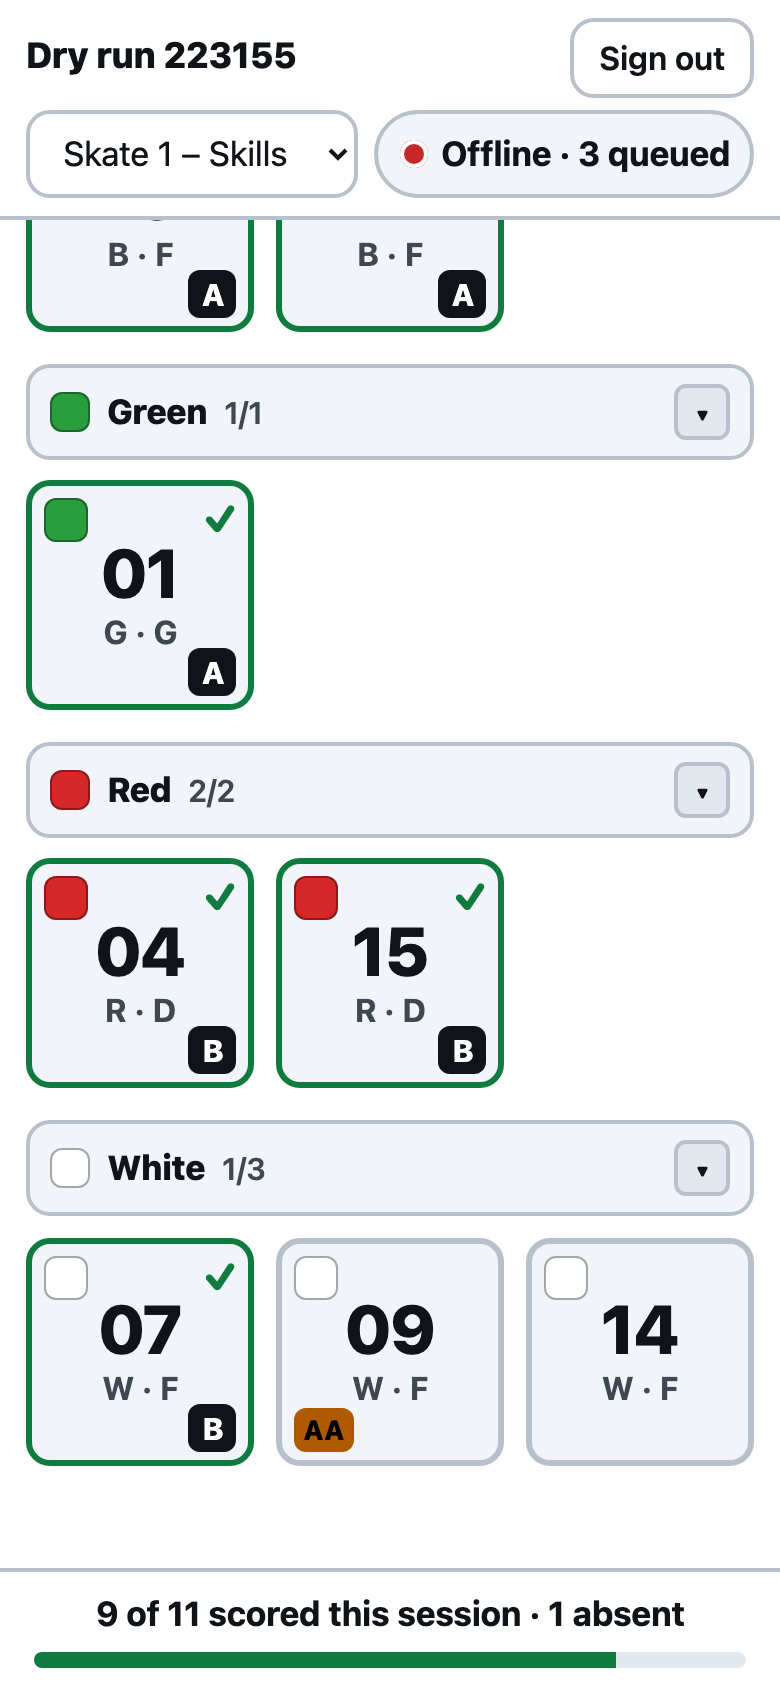
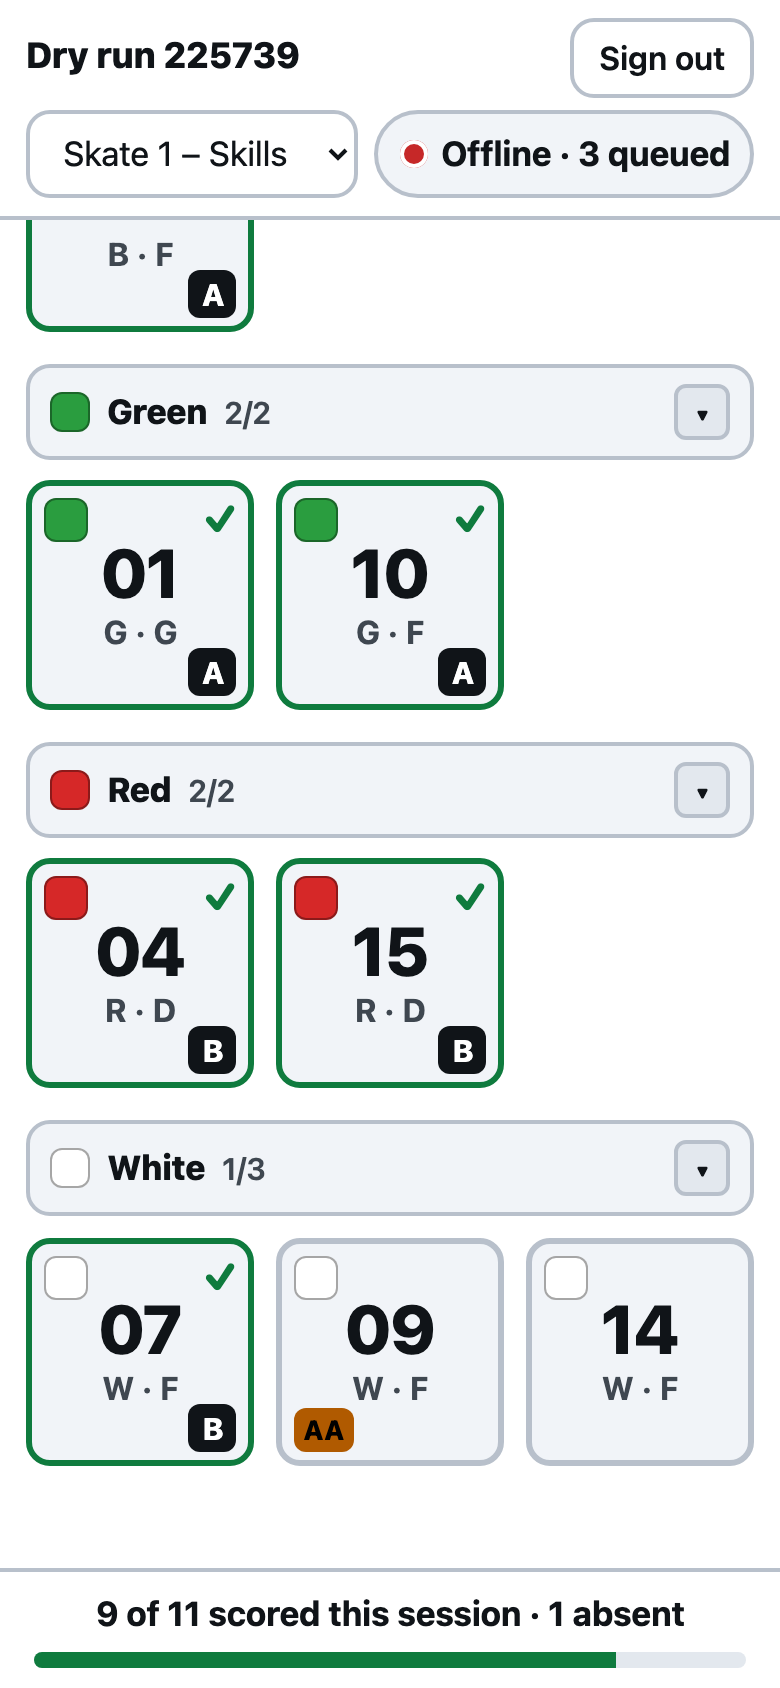
Primary colour dropdown on the Players table (changes the player's code)
- changePlayerColour pipeline: refuse if the player has scores, read the row,
  then TransactWriteItems put-new + delete-old (Conflict if the code exists)
- Admin: primary colour dropdown per row with a confirm; after the move the
  client carries the code over in team rosters, attendance and per-session
  colours, then reloads
- Mock transactions check conditions all-or-nothing and support DeleteItem
- Dry run: B-10 -> Green becomes G-10 with Team 1's roster following; change
  refused for a scored player; 61 unit tests; validated on APPSYNC_JS

diff --git a/web/js/admin.js b/web/js/admin.js
@@ -222,9 +222,21 @@ function renderSetup() {
     tagBox.checked = p.tag === "AA";
     tagBox.addEventListener("change", () => updatePlayer(p, { tag: tagBox.checked ? "AA" : "" }));
 
+    // Primary colour: changing it changes the player's code. Only possible before they have scores.
+    const c1Sel = el("select", { class: "colour-select sm", "aria-label": `Primary colour for ${p.playerNumber}` });
+    const c1Other = el("input", { type: "text", maxlength: "20", placeholder: "New colour", hidden: true, style: "margin-top:.3rem", "aria-label": `New primary colour for ${p.playerNumber}` });
+    fillColourSelect(c1Sel, { value: p.colour });
+    c1Sel.addEventListener("change", () => {
+      if (c1Sel.value === OTHER) { c1Other.hidden = false; c1Other.focus(); return; }
+      changePlayerColour(p, c1Sel.value);
+    });
+    const commitC1Other = () => { const v = c1Other.value.trim(); if (v) changePlayerColour(p, v); };
+    c1Other.addEventListener("change", commitC1Other);
+    c1Other.addEventListener("keydown", (ev) => { if (ev.key === "Enter") { ev.preventDefault(); commitC1Other(); } });
+
     pb.append(el("tr", { class: p.active ? "" : "inactive", "data-player": p.playerNumber },
       el("td", {}, el("span", { class: "swatch", style: `background:${swatchColour(p.colour)}` }), el("b", {}, p.playerNumber), p.tag ? el("span", { class: "tagpill", style: "margin-left:.4rem" }, p.tag) : null),
-      el("td", {}, el("span", { class: "swatch", style: `background:${swatchColour(p.colour)}` }), p.colour),
+      el("td", {}, el("span", { class: "swatch", style: `background:${swatchColour(p.colour)}` }), c1Sel, c1Other),
       el("td", {}, el("span", { class: "swatch", style: `background:${swatchColour(p.colour2 || "")}` }), c2Sel, c2Other),
       el("td", { class: "num" }, String(p.number)), el("td", {}, posSel),
       el("td", {}, tagBox),
@@ -440,6 +452,39 @@ async function updatePlayer(p, patch) {
     Object.assign(p, data.updatePlayer);
     renderAll();
   }, `${p.playerNumber} updated.`);
+}
+
+/** Change the primary colour = the player's code. Server moves the row; we then carry references over. */
+async function changePlayerColour(p, colour) {
+  const code = `${colour.charAt(0).toUpperCase()}-${String(p.number).padStart(2, "0")}`;
+  if (code === p.playerNumber) { renderSetup(); return; }
+  if (!confirm(`Change ${p.playerNumber}'s primary colour to ${colour}? Their code becomes ${code} everywhere. Only possible while they have no scores.`)) { renderSetup(); return; }
+  const oldPn = p.playerNumber;
+  await run(async () => {
+    const data = await gql(`mutation($tryoutId: ID!, $playerNumber: ID!, $colour: String!) {
+      changePlayerColour(tryoutId: $tryoutId, playerNumber: $playerNumber, colour: $colour) { playerNumber colour colour2 number position active tag } }`,
+      { tryoutId: state.tryout.id, playerNumber: oldPn, colour });
+    const moved = data.changePlayerColour;
+    // Carry the old code over in team rosters, attendance lists and per-session colours.
+    for (const team of state.tryout.teams) {
+      if (team.players.includes(oldPn)) {
+        const players = team.players.map((x) => (x === oldPn ? moved.playerNumber : x));
+        const r = await gql(`mutation($tryoutId: ID!, $teamId: ID!, $players: [ID!]!) { setTeamPlayers(tryoutId: $tryoutId, teamId: $teamId, players: $players) { id players } }`, { tryoutId: state.tryout.id, teamId: team.id, players });
+        team.players = r.setTeamPlayers.players;
+      }
+    }
+    for (const sess of state.tryout.sessions) {
+      if ((sess.absent || []).includes(oldPn)) {
+        await gql(`mutation($tryoutId: ID!, $sessionId: ID!, $playerNumber: ID!, $present: Boolean!) { setAttendance(tryoutId: $tryoutId, sessionId: $sessionId, playerNumber: $playerNumber, present: $present) { id } }`, { tryoutId: state.tryout.id, sessionId: sess.id, playerNumber: oldPn, present: true });
+        await gql(`mutation($tryoutId: ID!, $sessionId: ID!, $playerNumber: ID!, $present: Boolean!) { setAttendance(tryoutId: $tryoutId, sessionId: $sessionId, playerNumber: $playerNumber, present: $present) { id } }`, { tryoutId: state.tryout.id, sessionId: sess.id, playerNumber: moved.playerNumber, present: false });
+      }
+      if (sess.colours && oldPn in sess.colours) {
+        const next = { ...sess.colours }; next[moved.playerNumber] = next[oldPn]; delete next[oldPn];
+        await gql(`mutation($tryoutId: ID!, $sessionId: ID!, $colours: AWSJSON!) { setSessionColours(tryoutId: $tryoutId, sessionId: $sessionId, colours: $colours) { id } }`, { tryoutId: state.tryout.id, sessionId: sess.id, colours: JSON.stringify(next) });
+      }
+    }
+    await loadAll();
+  }, `${oldPn} is now ${code}.`);
 }
 
 async function deletePlayer(p) {

diff --git a/tests/resolvers.test.js b/tests/resolvers.test.js
@@ -333,6 +333,7 @@ describe("admin-only resolvers re-check the admin group (defence in depth)", () 
       ["Mutation.setSessionTeams.js", { tryoutId: TRYOUT, sessionId: SESSION, teams: [{ teamId: "team1", colour: "Red" }] }],
       ["Mutation.deletePlayer.1.checkNoScores.js", { tryoutId: TRYOUT, playerNumber: "W-14" }],
       ["Mutation.deletePlayer.2.delete.js", { tryoutId: TRYOUT, playerNumber: "W-14" }],
+      ["Mutation.changePlayerColour.1.checkNoScores.js", { tryoutId: TRYOUT, playerNumber: "W-14", colour: "Red" }],
       ["Mutation.setEvaluatorAccess.js", { tryoutId: TRYOUT, evaluatorId: EVALUATOR_SUB, enabled: true }],
       ["Mutation.closeTryout.1.close.js", { tryoutId: TRYOUT }],
       ["Lambda.adminOps.js", { email: "e@example.com", displayName: "Evaluator 1" }],
@@ -618,6 +619,34 @@ describe("Mutation.createTryout / addSession / setPlayerActive / closeTryout", (
     assert.deepEqual(fromMapValues(d.key), { PK: `TRYOUT#${TRYOUT}`, SK: "PLAYER#W-14" });
     assert.equal(d.condition.expression, "attribute_exists(PK)");
     assert.equal(del.response(ctx({ args, result: { PK: "x" } })), "W-14");
+  });
+
+  test("changePlayerColour: refuses with scores, moves the row atomically to the new code", async () => {
+    const check = await loadResolver("Mutation.changePlayerColour.1.checkNoScores.js");
+    const get = await loadResolver("Mutation.changePlayerColour.2.get.js");
+    const move = await loadResolver("Mutation.changePlayerColour.3.move.js");
+    const args = { tryoutId: TRYOUT, playerNumber: "W-14", colour: "red" };
+    assert.equal(check.request(ctx({ identity: adminIdentity(), args })).index, "GSI1");
+    throwsType(() => check.response(ctx({ args, result: { items: [], scannedCount: 1 } })), "HasScores", /cannot change/);
+    throwsType(() => check.request(ctx({ identity: adminIdentity(), args: { ...args, colour: "R3d" } })), "BadRequest", /colour/);
+    const c = ctx({ identity: adminIdentity(), args });
+    assert.deepEqual(fromMapValues(get.request(c).key), { PK: `TRYOUT#${TRYOUT}`, SK: "PLAYER#W-14" });
+    c.result = { tryoutId: TRYOUT, playerNumber: "W-14", colour: "White", colour2: "Green", number: 14, position: "D", active: true, tag: "AA" };
+    get.response(c);
+    const req = move.request(c);
+    assert.equal(req.operation, "TransactWriteItems");
+    const [put, del] = req.transactItems;
+    assert.equal(put.operation, "PutItem");
+    assert.deepEqual(fromMapValues(put.key), { PK: `TRYOUT#${TRYOUT}`, SK: "PLAYER#R-14" });
+    const attrs = fromMapValues(put.attributeValues);
+    assert.equal(attrs.colour, "Red"); assert.equal(attrs.colour2, "Green"); assert.equal(attrs.tag, "AA"); assert.equal(attrs.position, "D");
+    assert.equal(put.condition.expression, "attribute_not_exists(PK)");
+    assert.equal(del.operation, "DeleteItem");
+    assert.deepEqual(fromMapValues(del.key), { PK: `TRYOUT#${TRYOUT}`, SK: "PLAYER#W-14" });
+    assert.equal(move.response(ctx({ stash: c.stash, result: { keys: [] } })).playerNumber, "R-14");
+    throwsType(() => move.response(ctx({ stash: c.stash, error: { message: "x", type: "DynamoDB:TransactionCanceledException" } })), "Conflict", /already exists/);
+    const same = ctx({ identity: adminIdentity(), args: { ...args, colour: "White" }, stash: c.stash });
+    throwsType(() => move.request(same), "BadRequest", /already/);
   });
 
   test("closeTryout sets status=closed and stashes the id for the getTryout step", async () => {

diff --git a/tests/e2e/dry-run.js b/tests/e2e/dry-run.js
@@ -155,8 +155,9 @@ try {
   await rowB03.locator("select").last().selectOption("F"); // position select is the last select in the row
   await expectMsg(admin, "B-03 updated");
   assert((await admin.locator('#playersBody tr[data-player="B-03"] select').last().inputValue()) === "F", "position change persisted");
-  await rowB03.locator("select").first().selectOption("Orange"); // secondary colour dropdown
+  await rowB03.locator('select[aria-label^="Secondary colour"]').selectOption("Orange");
   await expectMsg(admin, "B-03 updated");
+  assert((await rowB03.locator('select[aria-label^="Secondary colour"]').inputValue()) === "Orange", "secondary colour persisted (primary untouched)");
   // add-one form defaults: White / Red, then delete that player again (no scores yet)
   assert((await admin.locator("#teamColour").inputValue()) === "", "new team defaults to no colour (default jerseys)");
   assert((await admin.locator("#pColour").inputValue()) === "White", "primary defaults to White");
@@ -251,6 +252,16 @@ try {
   await admin.selectOption("#aSession", { index: 1 });
   assert(/1 not dressed/.test(await admin.locator("#aSummary").textContent()), "B-17 is not dressed for the scrimmage");
   log("teams created; scrimmage = Team 1 (Red) vs Team 2 (White); B-17 not dressed");
+
+  // Primary colour change before any scores: B-10 (on Team 1) -> Green -> G-10, roster follows
+  const rowB10 = admin.locator('#playersBody tr[data-player="B-10"]');
+  await rowB10.locator('select[aria-label^="Primary colour"]').selectOption("Green");
+  await expectMsg(admin, "B-10 is now G-10.");
+  await admin.locator('#playersBody tr[data-player="G-10"]').waitFor({ timeout: 20000 });
+  assert((await admin.locator('#playersBody tr[data-player="B-10"]').count()) === 0, "old code gone");
+  const t1b = admin.locator("#teamsList details.team").filter({ has: admin.locator('input[value="Team 1"]') });
+  assert(await t1b.locator('label[data-roster="G-10"] input').isChecked(), "Team 1 roster now lists G-10");
+  log("B-10 primary colour changed to Green -> G-10; team roster carried over");
 
   // ------------------------------------------------------------------ Evaluator: score 6 online
   await ev.reload();
@@ -356,7 +367,9 @@ try {
   await expectMsg(admin, "Refreshed");
   await admin.locator('#playersBody tr[data-player="B-01"] button', { hasText: "Delete" }).click();
   await expectMsg(admin, "already has scores");
-  log("delete refused for a player with scores");
+  await admin.locator('#playersBody tr[data-player="B-01"] select[aria-label^="Primary colour"]').selectOption("Green");
+  await expectMsg(admin, "code cannot change");
+  log("delete and primary-colour change refused for a player with scores");
 
   // ------------------------------------------------------------------ Admin: rankings show 9
   await admin.click("#refreshBtn");

diff --git a/scripts/dev-server.js b/scripts/dev-server.js
@@ -97,9 +97,15 @@ async function execute(req) {
     }
     case "TransactWriteItems": {
       const keys = [];
+      for (const t of req.transactItems) { // check all conditions first (all-or-nothing)
+        const key = fromMapValues(t.key);
+        try { checkCondition(t.condition, db.get(k(key.PK, key.SK))); }
+        catch (e) { const err = new Error("Transaction cancelled, please refer cancellation reasons for specific reasons"); err.type = "DynamoDB:TransactionCanceledException"; throw err; }
+      }
       for (const t of req.transactItems) {
         const key = fromMapValues(t.key);
         if (t.operation === "PutItem") db.set(k(key.PK, key.SK), { ...key, ...fromMapValues(t.attributeValues || {}) });
+        else if (t.operation === "DeleteItem") db.delete(k(key.PK, key.SK));
         keys.push(key);
       }
       return { keys };
@@ -148,13 +154,14 @@ const FIELDS = {
   setTeamPlayers: [await R("Mutation.setTeamPlayers.js")],
   setSessionTeams: [await R("Mutation.setSessionTeams.js")],
   deletePlayer: [await R("Mutation.deletePlayer.1.checkNoScores.js"), await R("Mutation.deletePlayer.2.delete.js")],
+  changePlayerColour: [await R("Mutation.changePlayerColour.1.checkNoScores.js"), await R("Mutation.changePlayerColour.2.get.js"), await R("Mutation.changePlayerColour.3.move.js")],
   setEvaluatorAccess: [await R("Mutation.setEvaluatorAccess.js")],
   closeTryout: [await R("Mutation.closeTryout.1.close.js"), await R("Fn.getTryout.js")],
   createEvaluator: [await R("Lambda.adminOps.js")],
   deleteEvaluator: [await R("Lambda.adminOps.js")],
   exportUrl: [await R("Lambda.adminOps.js")],
 };
-const ADMIN_FIELDS = new Set(["allEvaluations", "evaluators", "createTryout", "addSession", "upsertPlayers", "updateSession", "setPlayerActive", "updatePlayer", "deletePlayer", "setAttendance", "setSessionColours", "createTeam", "updateTeam", "deleteTeam", "setTeamPlayers", "setSessionTeams", "setEvaluatorAccess", "createEvaluator", "deleteEvaluator", "closeTryout", "exportUrl"]);
+const ADMIN_FIELDS = new Set(["allEvaluations", "evaluators", "createTryout", "addSession", "upsertPlayers", "updateSession", "setPlayerActive", "updatePlayer", "deletePlayer", "changePlayerColour", "setAttendance", "setSessionColours", "createTeam", "updateTeam", "deleteTeam", "setTeamPlayers", "setSessionTeams", "setEvaluatorAccess", "createEvaluator", "deleteEvaluator", "closeTryout", "exportUrl"]);
 
 async function runField(field, args, identity) {
   const ctx = { args, arguments: args, identity, stash: {}, prev: { result: null }, result: null, error: null, info: { fieldName: field, parentTypeName: "" } };

diff --git a/infra/resolvers/Mutation.changePlayerColour.3.move.js b/infra/resolvers/Mutation.changePlayerColour.3.move.js
@@ -1,0 +1,36 @@
+// Step 3: put the row under the new code and delete the old one, atomically. Fails if the new code exists.
+import { util } from "@aws-appsync/utils";
+import { TABLE_NAME, tryoutPK, playerSK, requireColour, makePlayerNumber, toPlayer, failOnError } from "./shared.js";
+
+export function request(ctx) {
+  const old = ctx.stash.player;
+  const colour = requireColour(ctx.args.colour);
+  const playerNumber = makePlayerNumber(colour, old.number);
+  if (playerNumber === old.playerNumber) util.error("That is already the player's colour", "BadRequest");
+  const pk = tryoutPK(ctx.args.tryoutId);
+  const item = {
+    tryoutId: old.tryoutId, playerNumber, colour, colour2: old.colour2 || null, number: old.number,
+    position: old.position, active: old.active !== false, tag: old.tag || null,
+  };
+  ctx.stash.moved = item;
+  return {
+    operation: "TransactWriteItems",
+    transactItems: [
+      {
+        table: TABLE_NAME, operation: "PutItem",
+        key: util.dynamodb.toMapValues({ PK: pk, SK: playerSK(playerNumber) }),
+        attributeValues: util.dynamodb.toMapValues(item),
+        condition: { expression: "attribute_not_exists(PK)" },
+      },
+      { table: TABLE_NAME, operation: "DeleteItem", key: util.dynamodb.toMapValues({ PK: pk, SK: playerSK(old.playerNumber) }) },
+    ],
+  };
+}
+
+export function response(ctx) {
+  if (ctx.error && ctx.error.type && ctx.error.type.indexOf("TransactionCanceled") >= 0) {
+    util.error(`A player with code ${ctx.stash.moved.playerNumber} already exists`, "Conflict");
+  }
+  failOnError(ctx);
+  return toPlayer(ctx.stash.moved);
+}

diff --git a/web/admin.html b/web/admin.html
@@ -73,7 +73,7 @@
         </form>
       </div>
       <div class="toolbar" style="margin-top:.75rem"><label><input id="showInactive" type="checkbox"> Show released players</label><span id="playerCount" class="muted small"></span></div>
-      <p class="small muted">Position and secondary colour can be changed in the table (they save immediately). <b>Delete</b> only works for players with no scores yet; use <b>Release</b> once scoring has started. Tick <b>AA</b> for players still being considered for the AA team: evaluators see the badge on that player's card.</p>
+      <p class="small muted">Position, primary colour and secondary colour can be changed in the table (they save immediately). Changing the <b>primary colour changes the player's code</b> (W-433 becomes R-433) and is only possible while they have no scores; teams and sessions are updated to the new code. <b>Delete</b> only works for players with no scores yet; use <b>Release</b> once scoring has started. Tick <b>AA</b> for players still being considered for the AA team: evaluators see the badge on that player's card.</p>
       <div class="table-wrap"><table><thead><tr><th>Player</th><th>Primary</th><th>Secondary</th><th class="num">No.</th><th>Pos</th><th>AA</th><th>Status</th><th></th></tr></thead><tbody id="playersBody"></tbody></table></div>
     </div>
 

diff --git a/infra/resolvers/Mutation.changePlayerColour.1.checkNoScores.js b/infra/resolvers/Mutation.changePlayerColour.1.checkNoScores.js
@@ -1,0 +1,25 @@
+// Step 1: a player with scores keeps their code (release them and add the new code instead).
+import { util } from "@aws-appsync/utils";
+import { evalGSI1PK, requireAdmin, requireId, requirePlayerNumber, requireColour, makePlayerNumber, failOnError } from "./shared.js";
+
+export function request(ctx) {
+  requireAdmin(ctx);
+  const tryoutId = requireId(ctx.args.tryoutId, "tryoutId");
+  const playerNumber = requirePlayerNumber(ctx.args.playerNumber);
+  requireColour(ctx.args.colour);
+  return {
+    operation: "Query",
+    index: "GSI1",
+    query: { expression: "GSI1PK = :pk", expressionValues: util.dynamodb.toMapValues({ ":pk": evalGSI1PK(tryoutId, playerNumber) }) },
+    select: "COUNT",
+    limit: 1,
+  };
+}
+
+export function response(ctx) {
+  failOnError(ctx);
+  const items = ctx.result.items || [];
+  const count = typeof ctx.result.scannedCount === "number" ? ctx.result.scannedCount : items.length;
+  if (count > 0) util.error("This player already has scores, so their code cannot change. Release them and add the new code.", "HasScores");
+  return count;
+}

diff --git a/infra/lib/tryout-stack.js b/infra/lib/tryout-stack.js
@@ -207,6 +207,11 @@ export class TryoutStack extends cdk.Stack {
     unit("Mutation", "setTeamPlayers", tableDs, "Mutation.setTeamPlayers.js");
     unit("Mutation", "setSessionTeams", tableDs, "Mutation.setSessionTeams.js");
     pipeline("Mutation", "deletePlayer", [fn("CheckNoScores", tableDs, "Mutation.deletePlayer.1.checkNoScores.js"), fn("DeletePlayer", tableDs, "Mutation.deletePlayer.2.delete.js")]);
+    pipeline("Mutation", "changePlayerColour", [
+      fn("ColourCheckNoScores", tableDs, "Mutation.changePlayerColour.1.checkNoScores.js"),
+      fn("ColourGetPlayer", tableDs, "Mutation.changePlayerColour.2.get.js"),
+      fn("ColourMovePlayer", tableDs, "Mutation.changePlayerColour.3.move.js"),
+    ]);
     unit("Mutation", "setEvaluatorAccess", tableDs, "Mutation.setEvaluatorAccess.js");
     pipeline("Mutation", "closeTryout", [fn("CloseTryout", tableDs, "Mutation.closeTryout.1.close.js"), getTryoutFn]);
     unit("Mutation", "createEvaluator", lambdaDs, "Lambda.adminOps.js");

diff --git a/infra/resolvers/Mutation.changePlayerColour.2.get.js b/infra/resolvers/Mutation.changePlayerColour.2.get.js
@@ -1,0 +1,14 @@
+// Step 2: read the current player row so every attribute moves with the code.
+import { util } from "@aws-appsync/utils";
+import { tryoutPK, playerSK, failOnError } from "./shared.js";
+
+export function request(ctx) {
+  return { operation: "GetItem", key: util.dynamodb.toMapValues({ PK: tryoutPK(ctx.args.tryoutId), SK: playerSK(ctx.args.playerNumber) }) };
+}
+
+export function response(ctx) {
+  failOnError(ctx);
+  if (!ctx.result) util.error("Player not found", "NotFound");
+  ctx.stash.player = ctx.result;
+  return ctx.result.playerNumber;
+}

diff --git a/docs/RUNNING-A-TRYOUT.md b/docs/RUNNING-A-TRYOUT.md
@@ -66,8 +66,10 @@ CSV and paste it. The app refuses any other layout, so a roster with names canno
 - **Delete** removes a player entered by mistake or with the wrong number, as long as nobody has scored them yet.
   After that the app refuses and you *Release* them instead (they disappear from evaluators and rankings, scores
   kept; *Reinstate* brings them back).
-- Number and primary colour cannot be edited because they are the player's identity for the whole tryout: delete
-  and re-add if one is wrong.
+- **Primary colour** is a dropdown as well, but note it is part of the player's code: White 433 becomes `R-433`
+  everywhere (teams, attendance, session colours are carried over). The app allows it only while the player has
+  no scores; after that, release them and add the new code.
+- The number cannot be edited: delete and re-add (before any scores) if it is wrong.
 
 ### 4. Make the teams and groups
 
@@ -291,8 +293,9 @@ logins cannot create stray evaluations. Old tryouts stay in storage but are no l
   for a skills night, the bulk row or the per-player dropdowns in *Attendance & jerseys*. Nothing about the scores
   changes when colours do.
 - **An ice time moved**: change the date on the session row. Evaluators see it in their picker on reload.
-- **A player has the wrong position**: change it on their row in the Players table. Wrong number: *Delete* the
-  player if nobody has scored them yet, otherwise *Release* them, and add the correct one.
+- **A player has the wrong position or primary colour**: change it on their row in the Players table (the colour
+  only before they have scores). Wrong number: *Delete* the player if nobody has scored them yet, otherwise
+  *Release* them, and add the correct one.
 - **Two colours start with the same letter**: the app blocks it. Rename one colour (e.g. `Dark` for black).
 - **An evaluator's phone died mid-skate**: their scores up to that moment are on the phone and will sync when it
   is back on and connected, even days later. They can also switch phones and keep scoring; the two devices'
